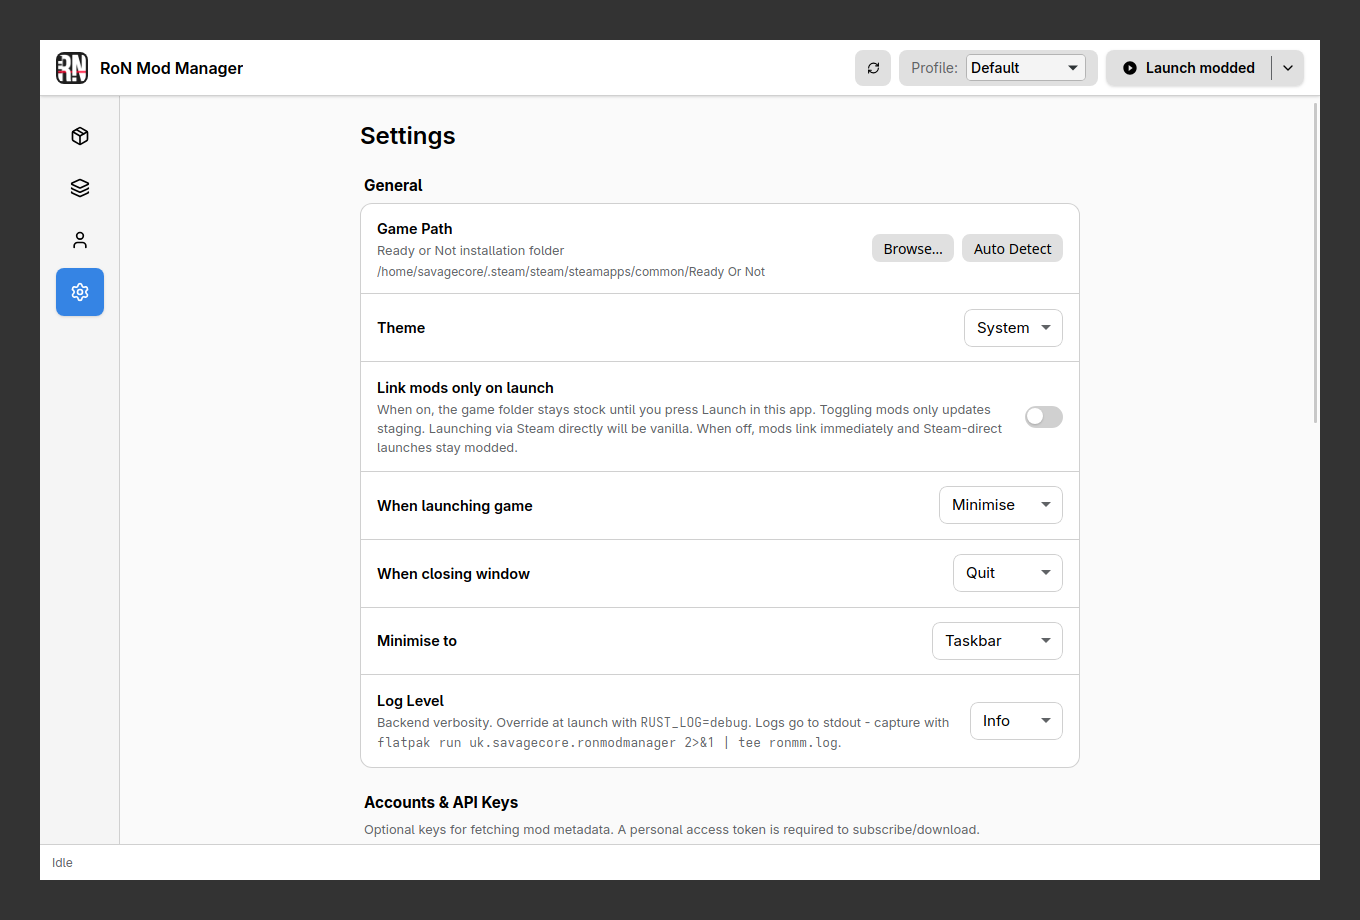
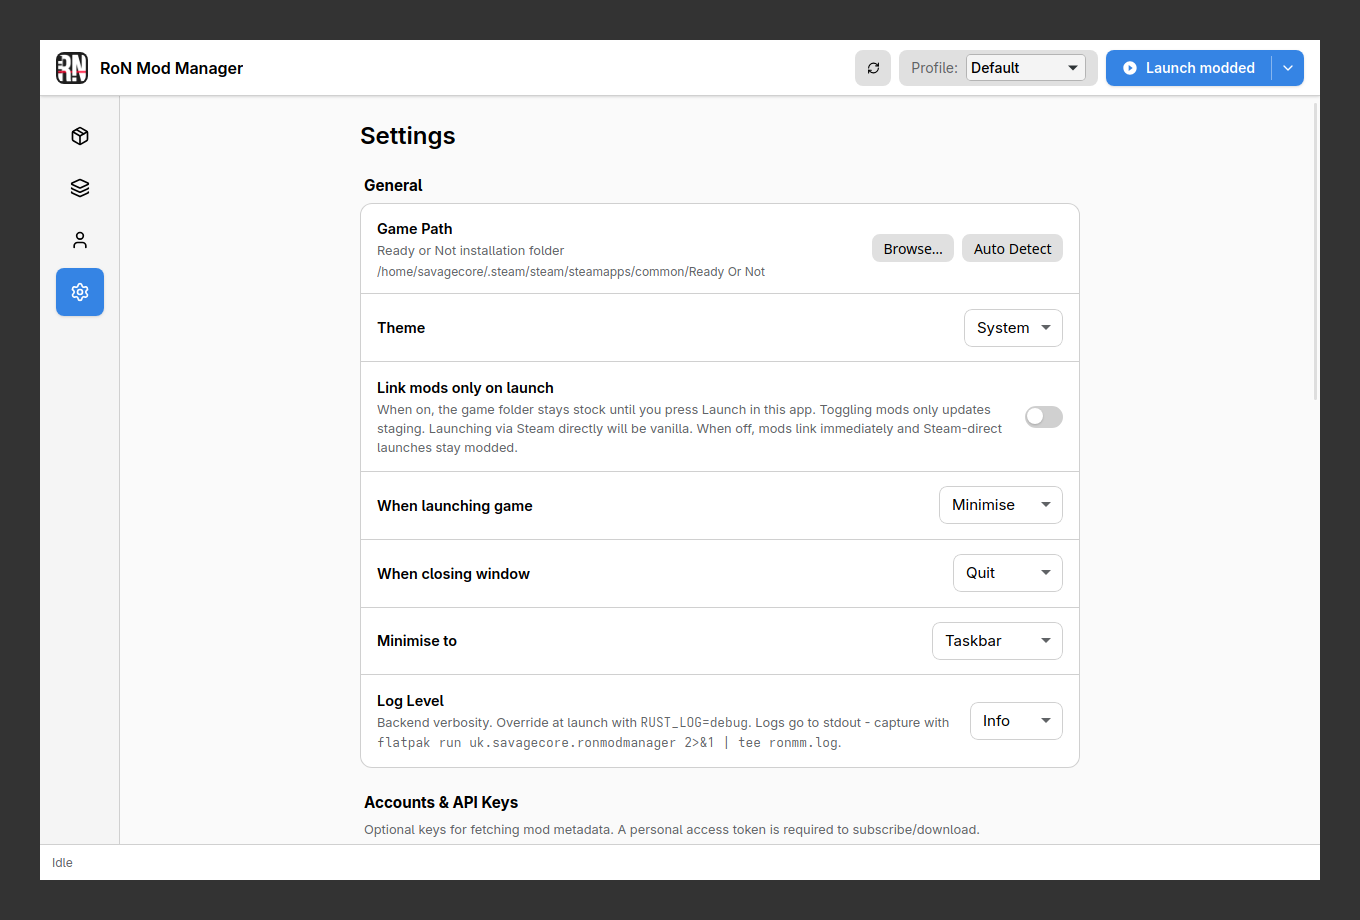
fix: launch button uses primary blue with dark-blue hover like Add Modpack
Replace grey base with --clr-primary-300/--clr-primary-text and hover
with --clr-primary-500 to match Add Modpack exactly. Move background
from inline style to scoped .launch-root CSS so :hover is no longer
overridden by inline specificity; suppress container hover when inner
button is disabled via :has(button:disabled).

Changed region(s): [[0.8029, 0.0304, 0.9574, 0.0913]]

diff --git a/src/lib/components/LaunchButton.svelte b/src/lib/components/LaunchButton.svelte
@@ -45,14 +45,11 @@
 </script>
 
 <div bind:this={root} class="relative inline-flex">
-  <div
-    class="inline-flex h-9 overflow-hidden rounded-lg shadow-sm"
-    style="background: var(--clr-btn); color: var(--clr-text);"
-  >
+  <div class="launch-root inline-flex h-9 overflow-hidden rounded-lg shadow-sm">
     <!-- Primary launch target -->
     <button
       type="button"
-      class="inline-flex flex-1 items-center gap-2 px-4 text-sm font-semibold transition-[background-color,border-color] duration-150 hover:bg-[var(--clr-btn-adaptive-hover)] active:bg-[var(--clr-btn-adaptive-pressed)] focus-visible:outline-2 focus-visible:outline-[color-mix(in_srgb,var(--clr-primary-300)_30%,transparent)] focus-visible:outline-offset-[-1px] disabled:cursor-not-allowed disabled:opacity-50 disabled:hover:bg-transparent disabled:active:bg-transparent"
+      class="launch-btn inline-flex flex-1 cursor-pointer items-center gap-2 px-4 text-sm font-semibold focus-visible:outline-2 focus-visible:outline-[color-mix(in_srgb,var(--clr-primary-300)_30%,transparent)] focus-visible:outline-offset-[-1px] disabled:cursor-not-allowed disabled:opacity-50"
       on:click={() => chooseLaunch(onLaunchModded)}
       {disabled}
       title={launchTitle}
@@ -67,15 +64,12 @@
     </button>
 
     <!-- Divider -->
-    <div
-      class="my-1.5 w-px"
-      style="background: var(--clr-text-secondary);"
-    ></div>
+    <div class="launch-divider my-1.5 w-px"></div>
 
     <!-- Dropdown caret target -->
     <button
       type="button"
-      class="inline-flex w-8 items-center justify-center transition-[background-color,border-color] duration-150 hover:bg-[var(--clr-btn-adaptive-hover)] active:bg-[var(--clr-btn-adaptive-pressed)] focus-visible:outline-2 focus-visible:outline-[color-mix(in_srgb,var(--clr-primary-300)_30%,transparent)] focus-visible:outline-offset-[-1px] disabled:cursor-not-allowed disabled:opacity-50 disabled:hover:bg-transparent disabled:active:bg-transparent"
+      class="launch-btn inline-flex w-8 cursor-pointer items-center justify-center focus-visible:outline-2 focus-visible:outline-[color-mix(in_srgb,var(--clr-primary-300)_30%,transparent)] focus-visible:outline-offset-[-1px] disabled:cursor-not-allowed disabled:opacity-50"
       on:click={toggleMenu}
       {disabled}
       title={isGameRunning
@@ -121,3 +115,40 @@
     </div>
   {/if}
 </div>
+
+<style>
+  .launch-root {
+    background: var(--clr-primary-300);
+    color: var(--clr-primary-text);
+    transition:
+      background-color 150ms ease,
+      box-shadow 150ms ease;
+  }
+  .launch-root:hover {
+    background: var(--clr-primary-500);
+    color: var(--clr-primary-text);
+    box-shadow:
+      0 1px 2px 0 rgb(0 0 0 / 0.05),
+      0 4px 6px -1px rgb(0 0 0 / 0.1);
+  }
+  .launch-root:has(button:disabled):hover {
+    background: var(--clr-btn);
+    color: var(--clr-text);
+    box-shadow: 0 1px 2px 0 rgb(0 0 0 / 0.05);
+    cursor: not-allowed;
+  }
+  .launch-btn {
+    background: transparent;
+    transition: background-color 150ms ease;
+  }
+  .launch-divider {
+    background: currentColor;
+    opacity: 0.4;
+  }
+  .launch-root:hover .launch-divider {
+    background: currentColor;
+  }
+  .launch-btn:active:not(:disabled) {
+    background: var(--clr-primary-500);
+  }
+</style>
